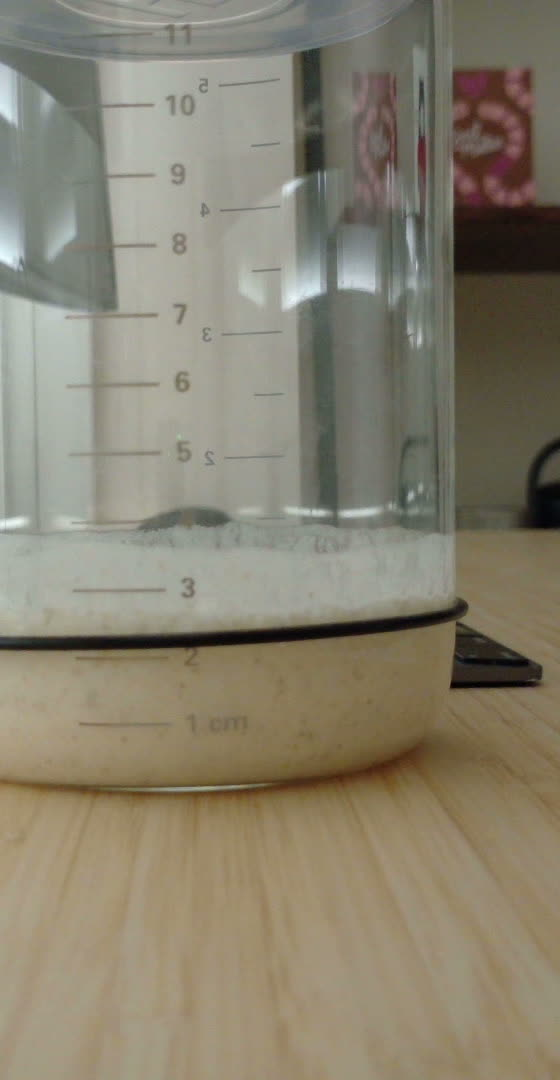
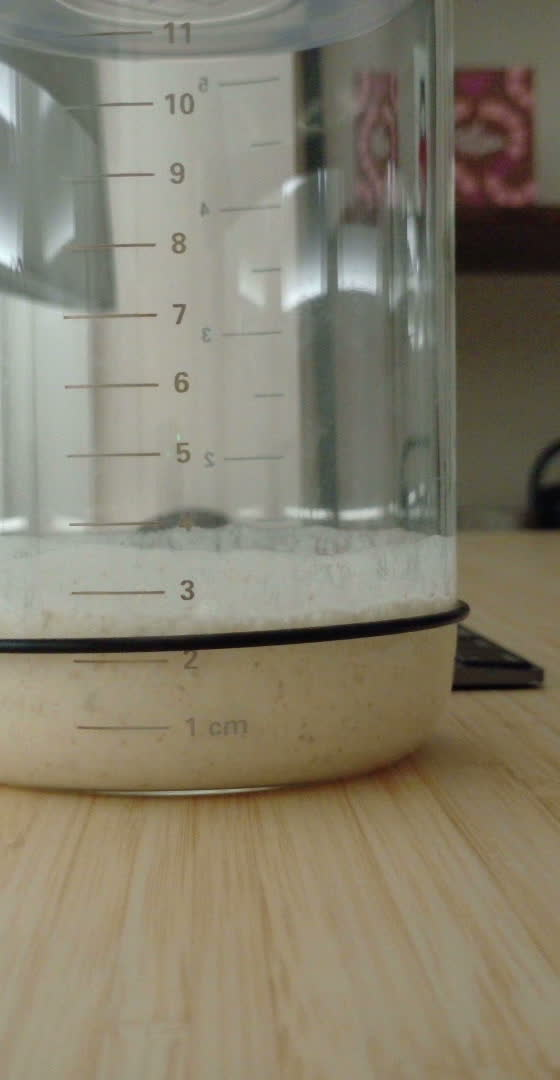
chore: record starter reading

diff --git a/public/index.html b/public/index.html
@@ -2,11 +2,11 @@
 <html lang="en"><head><meta charset="utf-8"><meta name="viewport" content="width=device-width,initial-scale=1"><title>Simon’s Sourdough Starter Watch</title>
 <link href="https://fonts.googleapis.com/css2?family=IBM+Plex+Sans:wght@400;500;600;700;800&family=JetBrains+Mono:wght@400;500;600;700&family=Fraunces:opsz,wght@9..144,650;9..144,800&display=swap" rel="stylesheet">
 <link rel="stylesheet" href="styles.css"></head><body><div class="wrap"><header class="topbar"><div class="brand"><div class="logo" aria-hidden="true"><div class="loafLogo" role="img" aria-label="cartoon bread loaf logo"><span class="loafBody"></span><span class="crust-mark crust-mark-a"></span><span class="crust-mark crust-mark-b"></span><span class="crust-mark crust-mark-c"></span><span class="loafSmile"></span></div></div><div>Simon’s Sourdough Starter Watch</div></div><div class="navpills"><span class="pill dark">FERMENTATION LAB · STORY MODE</span><span class="pill orange">Observed by <a class="hermesLink" href="https://hermes-agent.nousresearch.com/" target="_blank" rel="noopener noreferrer">Hermes</a></span></div></header>
-<main><section class="hero"><div class="panel heroCopy"><span class="tag">STARTER-001 · PUBLIC OBSERVATORY</span><h1>One Jar.<br>One Webcam.<br>Many Bubbles.</h1><p class="sub">A living fermentation experiment watched by a webcam and narrated by Hermes. The agent checks the starter, estimates its rise, writes notes, and pings Telegram when the jar does something worth noticing.</p><div class="storyline"><span class="storylineLabel">Current status</span><b>Today’s mood: ambitious.</b> Hermes visual read: Conservative estimate from visible jar markings places the actual starter surface at about 3.6 cm. Hermes has armed peak watch, which is less dramatic than it sounds — but only slightly.</div><div class="metrics"><div class="metric"><span>Rise</span><b>+64%</b></div><div class="metric"><span>Stage</span><b>Rising</b><small>starter activity</small></div><div class="metric"><span>Read confidence</span><b>72%</b><small>visual read certainty</small></div><div class="metric"><span>Watch cadence</span><b>10m</b><small>checks adjust automatically</small></div></div></div><div class="panel photo snapshotCard"><div class="snapshotViewport"><img class="snapshotBackdrop" src="photos/starter.jpg" alt="" aria-hidden="true"><img class="starterSnapshot" src="photos/starter.jpg" alt="latest webcam view of sourdough starter"><div class="measurementOverlay" aria-label="visual guide to the latest starter measurement">
-    <span class="measureLine currentLine"><b>Current ~3.6 cm</b></span>
+<main><section class="hero"><div class="panel heroCopy"><span class="tag">STARTER-001 · PUBLIC OBSERVATORY</span><h1>One Jar.<br>One Webcam.<br>Many Bubbles.</h1><p class="sub">A living fermentation experiment watched by a webcam and narrated by Hermes. The agent checks the starter, estimates its rise, writes notes, and pings Telegram when the jar does something worth noticing.</p><div class="storyline"><span class="storylineLabel">Current status</span><b>Today’s mood: settling.</b> Hermes visual read: The active current surface appears conservatively around 3.4 cm, not counting wall residue or glare. Hermes has armed peak watch, which is less dramatic than it sounds — but only slightly.</div><div class="metrics"><div class="metric"><span>Rise</span><b>+55%</b></div><div class="metric"><span>Stage</span><b>Falling</b><small>starter activity</small></div><div class="metric"><span>Read confidence</span><b>65%</b><small>visual read certainty</small></div><div class="metric"><span>Watch cadence</span><b>30m</b><small>checks adjust automatically</small></div></div></div><div class="panel photo snapshotCard"><div class="snapshotViewport"><img class="snapshotBackdrop" src="photos/starter.jpg" alt="" aria-hidden="true"><img class="starterSnapshot" src="photos/starter.jpg" alt="latest webcam view of sourdough starter"><div class="measurementOverlay" aria-label="visual guide to the latest starter measurement">
+    <span class="measureLine currentLine"><b>Current ~3.4 cm</b></span>
     <span class="measureLine baselineLine"><b>Baseline 2.2 cm</b></span>
-  </div></div><div class="photoOverlay"><div><strong>Latest webcam frame</strong><small>Actual camera view used for estimation</small></div><div><small>18:33 · webcam</small></div></div><div class="measurementSummary"><strong>Measured from the photo</strong><span>Baseline 2.2 cm → current ~3.6 cm → +64% rise</span></div><div class="photoInsight"><div><strong>Latest reading</strong><b>+64% rise</b></div><div><strong>What to look for</strong><span>bubbles, the height line, and whether the top is domed or sinking</span></div></div></div></section>
-<section class="grid readingsGrid"><div class="panel curvePanel"><div class="sectionHead"><h2>Today’s rise curve</h2><span class="pill">actual readings vs. baseline</span></div><div class="chartFrame"><svg class="chart chartDesktop" data-chart="actual-observations" viewBox="0 0 760 270" preserveAspectRatio="xMidYMid meet" aria-label="starter rise over time"><defs><linearGradient id="riseFill2" x1="0" y1="0" x2="0" y2="1"><stop offset="0%" stop-color="#f54e00" stop-opacity=".20"/><stop offset="100%" stop-color="#f54e00" stop-opacity="0"/></linearGradient></defs><g class="axis"><path d="M54 28.0H704M54 82.0H704M54 136.0H704M54 190.0H704M54 244.0H704"/><path d="M54.0 28V244M216.5 28V244M379.0 28V244M541.5 28V244M704.0 28V244"/></g><g class="ylabel"><text x="8" y="34">100%</text><text x="8" y="88">75%</text><text x="8" y="142">50%</text><text x="8" y="196">25%</text><text x="16" y="248">0%</text></g><path class="area" d="M54.0 244.0 L76.1 166.2 L89.6 146.8 L168.1 125.2 L244.1 125.2 L320.1 136.0 L396.2 136.0 L473.4 136.0 L598.5 136.0 L621.8 136.0 L640.2 125.2 L658.6 86.3 L677.0 105.8 L688.1 136.0 L704.0 105.8 L704.0 244 L54.0 244 Z"/><path class="line" d="M54.0 244.0 L76.1 166.2 L89.6 146.8 L168.1 125.2 L244.1 125.2 L320.1 136.0 L396.2 136.0 L473.4 136.0 L598.5 136.0 L621.8 136.0 L640.2 125.2 L658.6 86.3 L677.0 105.8 L688.1 136.0 L704.0 105.8"/><g class="dots"><circle class="chartDot" data-rise="0" aria-label="09:43: +0% rise" cx="54.0" cy="244.0" r="5"/><circle class="chartDot" data-rise="36" aria-label="10:01: +36% rise" cx="76.1" cy="166.2" r="5"/><circle class="chartDot" data-rise="45" aria-label="10:12: +45% rise" cx="89.6" cy="146.8" r="5"/><circle class="chartDot" data-rise="55" aria-label="11:16: +55% rise" cx="168.1" cy="125.2" r="5"/><circle class="chartDot" data-rise="55" aria-label="12:18: +55% rise" cx="244.1" cy="125.2" r="5"/><circle class="chartDot" data-rise="50" aria-label="13:20: +50% rise" cx="320.1" cy="136.0" r="5"/><circle class="chartDot" data-rise="50" aria-label="14:22: +50% rise" cx="396.2" cy="136.0" r="5"/><circle class="chartDot" data-rise="50" aria-label="15:25: +50% rise" cx="473.4" cy="136.0" r="5"/><circle class="chartDot" data-rise="50" aria-label="17:07: +50% rise" cx="598.5" cy="136.0" r="5"/><circle class="chartDot" data-rise="50" aria-label="17:26: +50% rise" cx="621.8" cy="136.0" r="5"/><circle class="chartDot" data-rise="55" aria-label="17:41: +55% rise" cx="640.2" cy="125.2" r="5"/><circle class="chartDot" data-rise="73" aria-label="17:56: +73% rise" cx="658.6" cy="86.3" r="5"/><circle class="chartDot" data-rise="64" aria-label="18:11: +64% rise" cx="677.0" cy="105.8" r="5"/><circle class="chartDot" data-rise="50" aria-label="18:20: +50% rise" cx="688.1" cy="136.0" r="5"/><circle class="chartDot" data-rise="64" aria-label="18:33: +64% rise" cx="704.0" cy="105.8" r="7"/></g><g class="xlabel"><text text-anchor="start" x="54.0" y="258">09:43</text><text text-anchor="middle" x="473.4" y="258">15:25</text><text text-anchor="end" x="704.0" y="258">18:33</text></g></svg><svg class="chart chartMobile" data-chart="actual-observations" viewBox="0 0 390 330" preserveAspectRatio="xMidYMid meet" aria-label="starter rise over time"><defs><linearGradient id="riseFill2" x1="0" y1="0" x2="0" y2="1"><stop offset="0%" stop-color="#f54e00" stop-opacity=".20"/><stop offset="100%" stop-color="#f54e00" stop-opacity="0"/></linearGradient></defs><g class="axis"><path d="M48 34.0H350M48 97.0H350M48 160.0H350M48 223.0H350M48 286.0H350"/><path d="M48.0 34V286M123.5 34V286M199.0 34V286M274.5 34V286M350.0 34V286"/></g><g class="ylabel"><text x="4" y="40">100%</text><text x="4" y="103">75%</text><text x="4" y="166">50%</text><text x="4" y="229">25%</text><text x="12" y="290">0%</text></g><path class="area" d="M48.0 286.0 L58.3 195.3 L64.5 172.6 L101.0 147.4 L136.3 147.4 L171.6 160.0 L207.0 160.0 L242.9 160.0 L301.0 160.0 L311.8 160.0 L320.4 147.4 L328.9 102.0 L337.5 124.7 L342.6 160.0 L350.0 124.7 L350.0 286 L48.0 286 Z"/><path class="line" d="M48.0 286.0 L58.3 195.3 L64.5 172.6 L101.0 147.4 L136.3 147.4 L171.6 160.0 L207.0 160.0 L242.9 160.0 L301.0 160.0 L311.8 160.0 L320.4 147.4 L328.9 102.0 L337.5 124.7 L342.6 160.0 L350.0 124.7"/><g class="dots"><circle class="chartDot" data-rise="0" aria-label="09:43: +0% rise" cx="48.0" cy="286.0" r="5"/><circle class="chartDot" data-rise="36" aria-label="10:01: +36% rise" cx="58.3" cy="195.3" r="5"/><circle class="chartDot" data-rise="45" aria-label="10:12: +45% rise" cx="64.5" cy="172.6" r="5"/><circle class="chartDot" data-rise="55" aria-label="11:16: +55% rise" cx="101.0" cy="147.4" r="5"/><circle class="chartDot" data-rise="55" aria-label="12:18: +55% rise" cx="136.3" cy="147.4" r="5"/><circle class="chartDot" data-rise="50" aria-label="13:20: +50% rise" cx="171.6" cy="160.0" r="5"/><circle class="chartDot" data-rise="50" aria-label="14:22: +50% rise" cx="207.0" cy="160.0" r="5"/><circle class="chartDot" data-rise="50" aria-label="15:25: +50% rise" cx="242.9" cy="160.0" r="5"/><circle class="chartDot" data-rise="50" aria-label="17:07: +50% rise" cx="301.0" cy="160.0" r="5"/><circle class="chartDot" data-rise="50" aria-label="17:26: +50% rise" cx="311.8" cy="160.0" r="5"/><circle class="chartDot" data-rise="55" aria-label="17:41: +55% rise" cx="320.4" cy="147.4" r="5"/><circle class="chartDot" data-rise="73" aria-label="17:56: +73% rise" cx="328.9" cy="102.0" r="5"/><circle class="chartDot" data-rise="64" aria-label="18:11: +64% rise" cx="337.5" cy="124.7" r="5"/><circle class="chartDot" data-rise="50" aria-label="18:20: +50% rise" cx="342.6" cy="160.0" r="5"/><circle class="chartDot" data-rise="64" aria-label="18:33: +64% rise" cx="350.0" cy="124.7" r="7"/></g><g class="xlabel"><text text-anchor="start" x="48.0" y="318">09:43</text><text text-anchor="middle" x="242.9" y="318">15:25</text><text text-anchor="end" x="350.0" y="318">18:33</text></g></svg></div><div class="latestReadingCallout"><strong>Now: +64% at 18:33</strong><span>latest measured point from the webcam sequence</span></div><div class="curveAnnotations"><div class="annotationHead"><h3>Key moments</h3><span>notes from today’s rise</span></div><div class="annotationList">
+  </div></div><div class="photoOverlay"><div><strong>Latest webcam frame</strong><small>Actual camera view used for estimation</small></div><div><small>18:46 · webcam</small></div></div><div class="measurementSummary"><strong>Measured from the photo</strong><span>Baseline 2.2 cm → current ~3.4 cm → +55% rise</span></div><div class="photoInsight"><div><strong>Latest reading</strong><b>+55% rise</b></div><div><strong>What to look for</strong><span>bubbles, the height line, and whether the top is domed or sinking</span></div></div></div></section>
+<section class="grid readingsGrid"><div class="panel curvePanel"><div class="sectionHead"><h2>Today’s rise curve</h2><span class="pill">actual readings vs. baseline</span></div><div class="chartFrame"><svg class="chart chartDesktop" data-chart="actual-observations" viewBox="0 0 760 270" preserveAspectRatio="xMidYMid meet" aria-label="starter rise over time"><defs><linearGradient id="riseFill2" x1="0" y1="0" x2="0" y2="1"><stop offset="0%" stop-color="#f54e00" stop-opacity=".20"/><stop offset="100%" stop-color="#f54e00" stop-opacity="0"/></linearGradient></defs><g class="axis"><path d="M54 28.0H704M54 82.0H704M54 136.0H704M54 190.0H704M54 244.0H704"/><path d="M54.0 28V244M216.5 28V244M379.0 28V244M541.5 28V244M704.0 28V244"/></g><g class="ylabel"><text x="8" y="34">100%</text><text x="8" y="88">75%</text><text x="8" y="142">50%</text><text x="8" y="196">25%</text><text x="16" y="248">0%</text></g><path class="area" d="M54.0 244.0 L75.5 166.2 L88.7 146.8 L165.3 125.2 L239.5 125.2 L313.8 136.0 L388.0 136.0 L463.4 136.0 L585.5 136.0 L608.2 136.0 L626.2 125.2 L644.1 86.3 L662.1 105.8 L672.9 136.0 L688.4 105.8 L704.0 125.2 L704.0 244 L54.0 244 Z"/><path class="line" d="M54.0 244.0 L75.5 166.2 L88.7 146.8 L165.3 125.2 L239.5 125.2 L313.8 136.0 L388.0 136.0 L463.4 136.0 L585.5 136.0 L608.2 136.0 L626.2 125.2 L644.1 86.3 L662.1 105.8 L672.9 136.0 L688.4 105.8 L704.0 125.2"/><g class="dots"><circle class="chartDot" data-rise="0" aria-label="09:43: +0% rise" cx="54.0" cy="244.0" r="5"/><circle class="chartDot" data-rise="36" aria-label="10:01: +36% rise" cx="75.5" cy="166.2" r="5"/><circle class="chartDot" data-rise="45" aria-label="10:12: +45% rise" cx="88.7" cy="146.8" r="5"/><circle class="chartDot" data-rise="55" aria-label="11:16: +55% rise" cx="165.3" cy="125.2" r="5"/><circle class="chartDot" data-rise="55" aria-label="12:18: +55% rise" cx="239.5" cy="125.2" r="5"/><circle class="chartDot" data-rise="50" aria-label="13:20: +50% rise" cx="313.8" cy="136.0" r="5"/><circle class="chartDot" data-rise="50" aria-label="14:22: +50% rise" cx="388.0" cy="136.0" r="5"/><circle class="chartDot" data-rise="50" aria-label="15:25: +50% rise" cx="463.4" cy="136.0" r="5"/><circle class="chartDot" data-rise="50" aria-label="17:07: +50% rise" cx="585.5" cy="136.0" r="5"/><circle class="chartDot" data-rise="50" aria-label="17:26: +50% rise" cx="608.2" cy="136.0" r="5"/><circle class="chartDot" data-rise="55" aria-label="17:41: +55% rise" cx="626.2" cy="125.2" r="5"/><circle class="chartDot" data-rise="73" aria-label="17:56: +73% rise" cx="644.1" cy="86.3" r="5"/><circle class="chartDot" data-rise="64" aria-label="18:11: +64% rise" cx="662.1" cy="105.8" r="5"/><circle class="chartDot" data-rise="50" aria-label="18:20: +50% rise" cx="672.9" cy="136.0" r="5"/><circle class="chartDot" data-rise="64" aria-label="18:33: +64% rise" cx="688.4" cy="105.8" r="5"/><circle class="chartDot" data-rise="55" aria-label="18:46: +55% rise" cx="704.0" cy="125.2" r="7"/></g><g class="xlabel"><text text-anchor="start" x="54.0" y="258">09:43</text><text text-anchor="middle" x="585.5" y="258">17:07</text><text text-anchor="end" x="704.0" y="258">18:46</text></g></svg><svg class="chart chartMobile" data-chart="actual-observations" viewBox="0 0 390 330" preserveAspectRatio="xMidYMid meet" aria-label="starter rise over time"><defs><linearGradient id="riseFill2" x1="0" y1="0" x2="0" y2="1"><stop offset="0%" stop-color="#f54e00" stop-opacity=".20"/><stop offset="100%" stop-color="#f54e00" stop-opacity="0"/></linearGradient></defs><g class="axis"><path d="M48 34.0H350M48 97.0H350M48 160.0H350M48 223.0H350M48 286.0H350"/><path d="M48.0 34V286M123.5 34V286M199.0 34V286M274.5 34V286M350.0 34V286"/></g><g class="ylabel"><text x="4" y="40">100%</text><text x="4" y="103">75%</text><text x="4" y="166">50%</text><text x="4" y="229">25%</text><text x="12" y="290">0%</text></g><path class="area" d="M48.0 286.0 L58.0 195.3 L64.1 172.6 L99.7 147.4 L134.2 147.4 L168.7 160.0 L203.2 160.0 L238.2 160.0 L294.9 160.0 L305.5 160.0 L313.8 147.4 L322.2 102.0 L330.5 124.7 L335.5 160.0 L342.8 124.7 L350.0 147.4 L350.0 286 L48.0 286 Z"/><path class="line" d="M48.0 286.0 L58.0 195.3 L64.1 172.6 L99.7 147.4 L134.2 147.4 L168.7 160.0 L203.2 160.0 L238.2 160.0 L294.9 160.0 L305.5 160.0 L313.8 147.4 L322.2 102.0 L330.5 124.7 L335.5 160.0 L342.8 124.7 L350.0 147.4"/><g class="dots"><circle class="chartDot" data-rise="0" aria-label="09:43: +0% rise" cx="48.0" cy="286.0" r="5"/><circle class="chartDot" data-rise="36" aria-label="10:01: +36% rise" cx="58.0" cy="195.3" r="5"/><circle class="chartDot" data-rise="45" aria-label="10:12: +45% rise" cx="64.1" cy="172.6" r="5"/><circle class="chartDot" data-rise="55" aria-label="11:16: +55% rise" cx="99.7" cy="147.4" r="5"/><circle class="chartDot" data-rise="55" aria-label="12:18: +55% rise" cx="134.2" cy="147.4" r="5"/><circle class="chartDot" data-rise="50" aria-label="13:20: +50% rise" cx="168.7" cy="160.0" r="5"/><circle class="chartDot" data-rise="50" aria-label="14:22: +50% rise" cx="203.2" cy="160.0" r="5"/><circle class="chartDot" data-rise="50" aria-label="15:25: +50% rise" cx="238.2" cy="160.0" r="5"/><circle class="chartDot" data-rise="50" aria-label="17:07: +50% rise" cx="294.9" cy="160.0" r="5"/><circle class="chartDot" data-rise="50" aria-label="17:26: +50% rise" cx="305.5" cy="160.0" r="5"/><circle class="chartDot" data-rise="55" aria-label="17:41: +55% rise" cx="313.8" cy="147.4" r="5"/><circle class="chartDot" data-rise="73" aria-label="17:56: +73% rise" cx="322.2" cy="102.0" r="5"/><circle class="chartDot" data-rise="64" aria-label="18:11: +64% rise" cx="330.5" cy="124.7" r="5"/><circle class="chartDot" data-rise="50" aria-label="18:20: +50% rise" cx="335.5" cy="160.0" r="5"/><circle class="chartDot" data-rise="64" aria-label="18:33: +64% rise" cx="342.8" cy="124.7" r="5"/><circle class="chartDot" data-rise="55" aria-label="18:46: +55% rise" cx="350.0" cy="147.4" r="7"/></g><g class="xlabel"><text text-anchor="start" x="48.0" y="318">09:43</text><text text-anchor="middle" x="294.9" y="318">17:07</text><text text-anchor="end" x="350.0" y="318">18:46</text></g></svg></div><div class="latestReadingCallout"><strong>Now: +55% at 18:46</strong><span>latest measured point from the webcam sequence</span></div><div class="curveAnnotations"><div class="annotationHead"><h3>Key moments</h3><span>notes from today’s rise</span></div><div class="annotationList">
     <article class="annotation" data-event-time="08:10">
       <time>08:10</time>
       <div><strong>Fed.</strong><p>Simon reset the baseline. The origin story begins again.</p></div>
